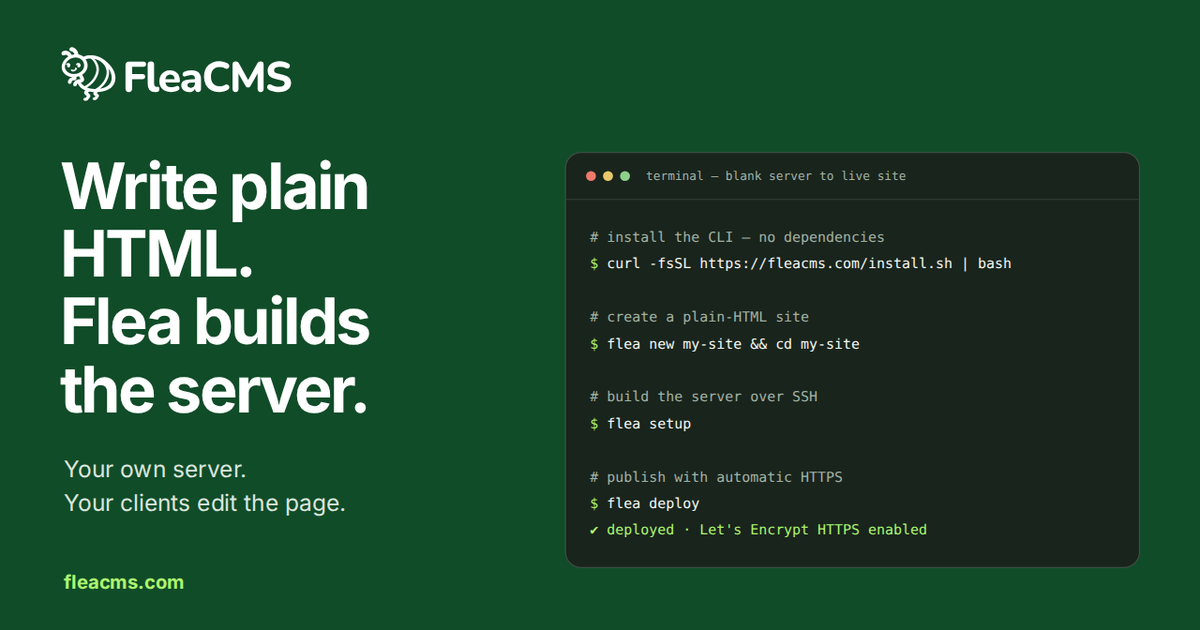
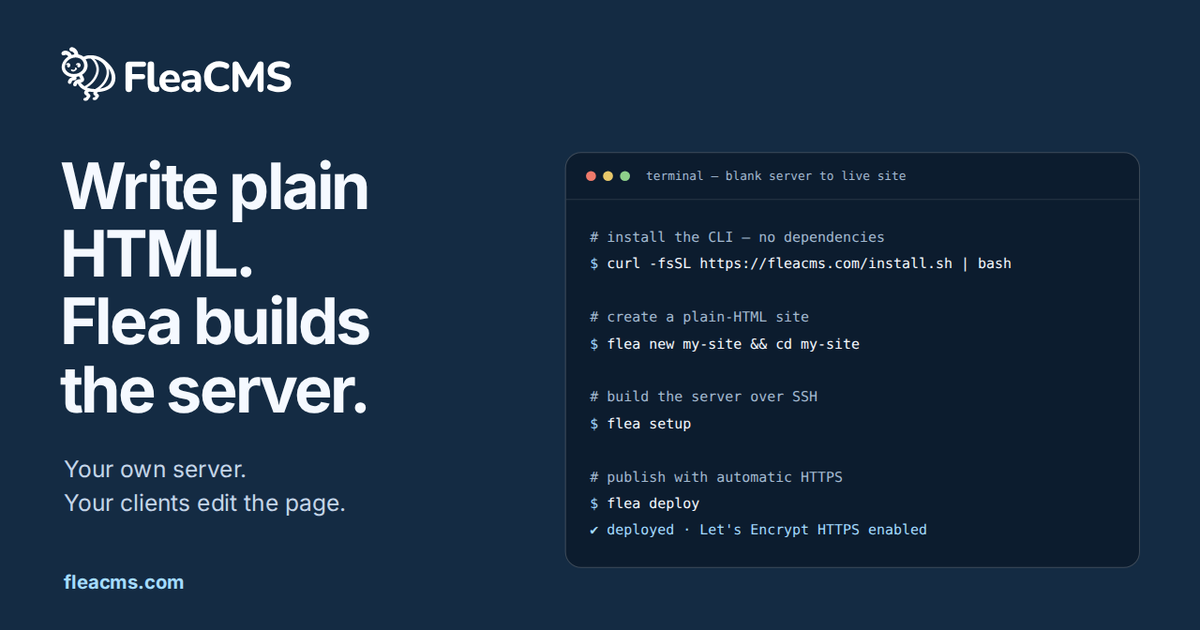
design: apply approved Navy and Ice hero palette

diff --git a/site/css/homepage.css b/site/css/homepage.css
@@ -2,12 +2,16 @@
    individual alignment and spacing. Refine the incumbent terminal-led layout. */
 @layer styles {
   .hero-grid,.feature-grid,.workflow,.install-command,.closing-grid { display:grid; }
-  .hero { --container-padding:var(--space-xl) var(--space-lg) 0; --hero-muted:var(--light); background:var(--brand-2); color:var(--white); }
-  .hero .hero-green,.hero .quiet-link { color:var(--white); }
-  .hero .status-dot { background:var(--accent); }
-  .hero :focus-visible { outline-color:var(--white); }
-  .hero ::selection { background:var(--accent); color:var(--black); }
-  .hero .terminal { border:1px solid #ffffff33; box-shadow:none; }
+  .hero { --container-padding:var(--space-xl) var(--space-lg) 0; background:var(--hero-bg); color:var(--hero-ink); }
+  .hero .hero-green,.hero .quiet-link { color:var(--hero-ink); }
+  .hero .status-dot { background:var(--hero-accent); }
+  .hero .ui-brand-1 { background:var(--hero-accent); border-color:var(--hero-accent); color:var(--hero-bg); }
+  .hero :focus-visible { outline-color:var(--hero-ink); }
+  .hero ::selection { background:var(--hero-accent); color:var(--hero-bg); }
+  .hero .terminal { background:var(--hero-terminal); color:var(--hero-ink); border:1px solid #ffffff33; box-shadow:none; }
+  .hero .terminal-title,.hero .t-comment { color:var(--hero-comment); }
+  .hero .t-prompt,.hero .t-ok { color:var(--hero-accent); }
+  .hero .terminal-body { scrollbar-color:var(--hero-comment) var(--hero-terminal); }
   .hero-grid { grid-template-columns:minmax(0,1fr) minmax(0,1.04fr); gap:clamp(32px,4.5vw,64px); padding-block:0 var(--space-xl); }
   .hero-copy { min-width:0; }
   .hero h1 { font-size:clamp(2.75rem,4.65vw,4.25rem); line-height:1.035; letter-spacing:-.04em; font-weight:var(--font-bold); margin:0; text-wrap:initial; }
@@ -31,7 +35,7 @@
   .hero-visual figcaption { padding:var(--space-sm) var(--space-2xs) 0; font-size:.75rem; line-height:1.6; color:var(--hero-muted); }
   .hero-facts { list-style:none; max-width:none; margin:0; padding:var(--space-md) 0; border-top:1px solid #ffffff33; border-bottom:1px solid #ffffff33; column-gap:var(--space-xl); row-gap:var(--space-sm); font-size:.82rem; color:var(--hero-muted); }
   .hero-facts li { display:flex; align-items:center; gap:var(--space-xs); margin:0; }
-  .hero-facts li::before { content:""; width:5px; height:5px; border-radius:50%; background:var(--accent); }
+  .hero-facts li::before { content:""; width:5px; height:5px; border-radius:50%; background:var(--hero-accent); }
   .section-head { max-width:66ch; margin-bottom:var(--space-lg); }
   .section-head h2,.agent-copy h2 { font-size:clamp(2.1rem,3.5vw,3.1rem); line-height:1.1; letter-spacing:-.035em; margin:0 0 var(--space-sm); }
   .section-head .section-intro { margin:0; }

diff --git a/design/social-preview.html b/design/social-preview.html
@@ -8,21 +8,21 @@
   @import url("../site/css/theme.css");
   * { box-sizing: border-box; }
   html, body { margin: 0; width: 1200px; height: 630px; overflow: hidden; }
-  body { background: var(--brand-2); color: var(--white); font-family: var(--font-heading); }
+  body { background: var(--hero-bg); color: var(--hero-ink); font-family: var(--font-heading); }
   .brand { position: absolute; left: 60px; top: 46px; }
   .brand img { width: 233px; height: 56px; filter: brightness(0) invert(1); }
   h1 { position: absolute; top: 152px; left: 60px; margin: 0; font-size: 64px; line-height: 1.06; letter-spacing: -.04em; font-weight: var(--font-bold); }
-  .tagline { position: absolute; top: 452px; left: 64px; margin: 0; color: var(--light); font-size: 23px; line-height: 1.45; }
-  .domain { position: absolute; left: 64px; bottom: 37px; color: var(--accent); font-size: 19px; font-weight: var(--font-bold); }
-  .terminal { position: absolute; left: 565px; top: 152px; width: 575px; border: 1px solid #ffffff33; border-radius: 16px; overflow: hidden; background: var(--black); color: var(--lighter); }
+  .tagline { position: absolute; top: 452px; left: 64px; margin: 0; color: var(--hero-muted); font-size: 23px; line-height: 1.45; }
+  .domain { position: absolute; left: 64px; bottom: 37px; color: var(--hero-accent); font-size: 19px; font-weight: var(--font-bold); }
+  .terminal { position: absolute; left: 565px; top: 152px; width: 575px; border: 1px solid #ffffff33; border-radius: 16px; overflow: hidden; background: var(--hero-terminal); color: var(--hero-ink); }
   .bar { padding: 16px 20px; display: flex; align-items: center; gap: 7px; border-bottom: 1px solid #ffffff1f; }
   .bar i { height: 10px; width: 10px; border-radius: 50%; background: #ef7a6b; }
   .bar i:nth-child(2) { background: #e8c86a; }
   .bar i:nth-child(3) { background: #8ed08a; }
-  .bar span { margin-left: 9px; font: 12px ui-monospace, monospace; color: #a2b2a4; }
+  .bar span { margin-left: 9px; font: 12px ui-monospace, monospace; color: var(--hero-comment); }
   pre { margin: 0; padding: 24px; font: 14px/1.9 ui-monospace, monospace; }
-  .comment { color: #a2b2a4; }
-  .prompt, .success { color: var(--accent); }
+  .comment { color: var(--hero-comment); }
+  .prompt, .success { color: var(--hero-accent); }
 </style>
 </head>
 <body>

diff --git a/site/main.layout.html b/site/main.layout.html
@@ -11,7 +11,7 @@
     <meta property="og:title" content="{page.title} | FleaCMS" />
     <meta property="og:description" content="{page.description}" />
     <meta property="og:url" content="https://fleacms.com{page.path}" />
-    <meta property="og:image" content="https://fleacms.com/images/social-preview.png?v=3d1baa8add0d" />
+    <meta property="og:image" content="https://fleacms.com/images/social-preview.png?v=e0aa7a43d50a" />
     <meta property="og:image:type" content="image/png" />
     <meta property="og:image:width" content="1200" />
     <meta property="og:image:height" content="630" />
@@ -19,7 +19,7 @@
     <meta name="twitter:card" content="summary_large_image" />
     <meta name="twitter:title" content="{page.title} | FleaCMS" />
     <meta name="twitter:description" content="{page.description}" />
-    <meta name="twitter:image" content="https://fleacms.com/images/social-preview.png?v=3d1baa8add0d" />
+    <meta name="twitter:image" content="https://fleacms.com/images/social-preview.png?v=e0aa7a43d50a" />
     <meta name="twitter:image:alt" content="FleaCMS: Write plain HTML. Flea builds the server. Terminal workflow from installation to HTTPS deployment." />
     <link rel="stylesheet" href="/css/global.css" />
     {#if app.current_admin}

diff --git a/site/css/theme.css b/site/css/theme.css
@@ -22,6 +22,13 @@
   --brand-1-light: #eafaeb;
   --brand-2: #104c28;
   --accent: #adf46f;
+  /* Navy & Ice: homepage hero and sharing artwork. */
+  --hero-bg: #142b43;
+  --hero-ink: #f5f9ff;
+  --hero-muted: #c4d5e8;
+  --hero-accent: #a4dbff;
+  --hero-terminal: #0c1c2e;
+  --hero-comment: #a3b9d0;
   --brand-2-light: oklch(90.1% 0.058 230.902); /* Sky 200 */
   --brand-3: oklch(51.1% 0.096 186.391); /* Teal 700 */
   --brand-3-light: oklch(91% 0.096 180.426); /* Teal 200 */
